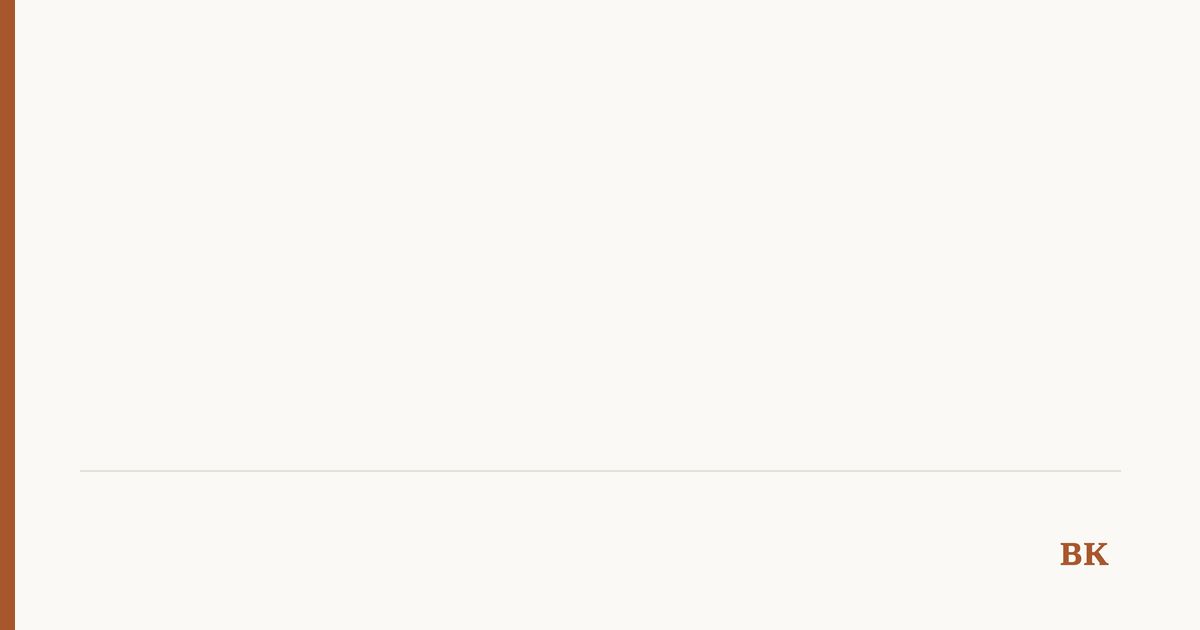
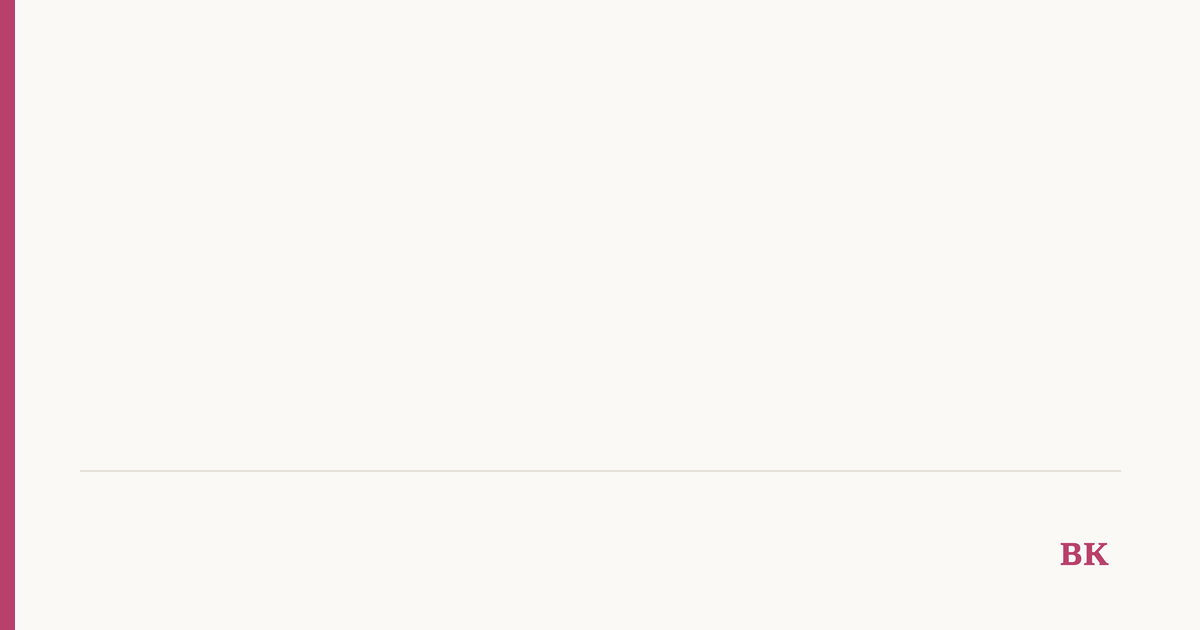
Rose accent

Changed region(s): [[0.0, 0.0, 0.0308, 1.0], [0.8633, 0.8444, 0.925, 0.9048]]

diff --git a/layouts/partials/og_card.html b/layouts/partials/og_card.html
@@ -12,5 +12,5 @@
 {{- $size := cond (gt (len $title) 48) 58 72 }}
 {{- $img := (resources.Get "images/og-base.png").Filter
   (images.Text $title (dict "font" $bold "size" $size "color" "#1e1e1e" "x" 80 "y" 110 "linespacing" 14))
-  (images.Text $sub (dict "font" $reg "size" 30 "color" "#a8572c" "x" 80 "y" 520)) }}
+  (images.Text $sub (dict "font" $reg "size" 30 "color" "#b8406a" "x" 80 "y" 520)) }}
 {{- return $img }}

diff --git a/assets/css/extended/custom_accent.css b/assets/css/extended/custom_accent.css
@@ -11,10 +11,10 @@
 */
 
 :root {
-  --accent: rgb(168, 87, 44);
+  --accent: rgb(184, 64, 106);
 }
 body.dark {
-  --accent: rgb(224, 140, 97);
+  --accent: rgb(238, 143, 177);
 }
 
 /* Links inside actual content/copy get the accent; nav and social icons

diff --git a/admin/app.py b/admin/app.py
@@ -266,8 +266,8 @@ def photo_image(slug, variant, ext):
 
 STYLE = """@font-face{font-family:Libron;src:url(/fonts/libron/Libron-Regular.woff2) format("woff2");font-weight:400}
 @font-face{font-family:Libron;src:url(/fonts/libron/Libron-Bold.woff2) format("woff2");font-weight:700}
-:root{--bg:#faf9f6;--card:#fdfcfa;--text:#1e1e1e;--muted:#6c6c6c;--line:#e6e3dc;--field:#fff;--accent:#a8572c;--on-accent:#fff}
-@media (prefers-color-scheme:dark){:root{--bg:#1d1e20;--card:#2e2e33;--text:#dadadb;--muted:#9b9c9d;--line:#3a3a3f;--field:#232427;--accent:#e08c61;--on-accent:#1d1e20}}
+:root{--bg:#faf9f6;--card:#fdfcfa;--text:#1e1e1e;--muted:#6c6c6c;--line:#e6e3dc;--field:#fff;--accent:#b8406a;--on-accent:#fff}
+@media (prefers-color-scheme:dark){:root{--bg:#1d1e20;--card:#2e2e33;--text:#dadadb;--muted:#9b9c9d;--line:#3a3a3f;--field:#232427;--accent:#ee8fb1;--on-accent:#1d1e20}}
 *{box-sizing:border-box;margin:0;padding:0}
 body{background:var(--bg);color:var(--text);font-family:Libron,Georgia,serif;padding:1.5rem;min-height:100vh;line-height:1.5}
 .wrap{max-width:900px;margin:0 auto}
